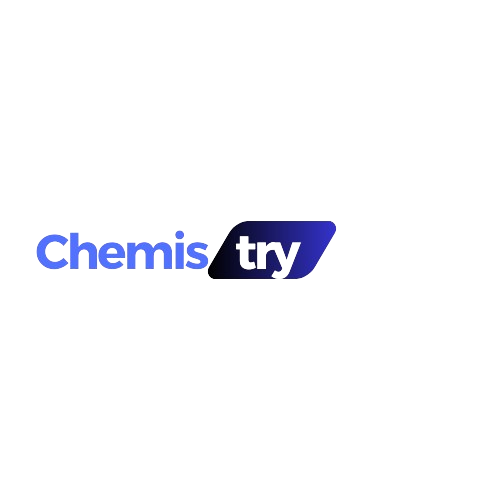
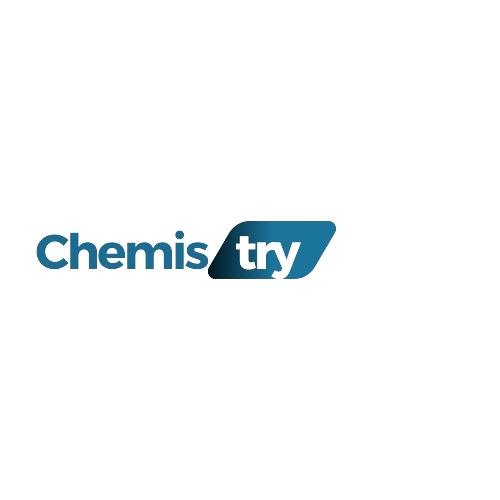
css

Changed region(s): [[0.06, 0.42, 0.69, 0.57]]

diff --git a/src/pages/Quiz/Test.jsx b/src/pages/Quiz/Test.jsx
@@ -1,11 +1,19 @@
 import React, { useState } from 'react'
-import { useLocation } from "react-router-dom"
+import { Link, useLocation } from "react-router-dom"
 import data from '../../data'
 import './Quiz.css'
+// import { ToastContainer, toast } from 'react-toastify';
+import toast, { Toaster } from 'react-hot-toast';
+import 'react-toastify/dist/ReactToastify.css';
+
 const Test = () => {
+  const notify = () => toast.success("Sizin cavab doğrudur!!!");
+  const notifyFalse = () => toast.error("Sizin cavab  yanlışdır!!!");
+
   const location = useLocation()
   let topicId = location.pathname.slice(location.pathname.length - 4, location.pathname.length - 2)
   let levelId = location.pathname.slice(location.pathname.length - 1, location.pathname.length)
+const [IsSkip, setIsSkip] = useState(false)
 
   let initialQuiz = data.filter(d => (d.levelId === levelId && d.topicId === topicId))
 const [disabledAnswer, setDisabledAnswer] = useState(false)
@@ -14,37 +22,76 @@ let answer=document.querySelector('.btn-answer')
   const [currentQuestionIndex, setCurrentQuestionIndex] = useState(0);
 const clickAnswer=(myAnswer)=>{
 if(myAnswer==initialQuiz[currentQuestionIndex].answer){
-answer.classList.add('.true')
+notify();
 setDisabledAnswer(true)
+
 }else{
-  answer.classList.add('.false')
-
 setDisabledAnswer(true)
+notifyFalse();
+}
+}
 
-}
-}
   const handleSkip = () => {
     setCurrentQuestionIndex(currentQuestionIndex + 1);
     setDisabledAnswer(false)
+    setIsSkip(true)
   };
 
   return (
-    <>
+  <div className='test-page-all-div'>
+      <div className='all-test'>
+     <Toaster
+  gutter={8}
+  containerClassName=""
+  containerStyle={{}}
+  toastOptions={{
+    // Define default options
+    className: '',
+    duration: 1500,
+    style: {
+      background: '#363636',
+      color: '#fff',
+    },
+
+    success: {
+      duration: 1500,
+      theme: {
+        primary: 'green',
+        secondary: 'black',
+      },
+    },
+  }}
+/>
       {initialQuiz[currentQuestionIndex] && (
-        <div>
-          <h4>{initialQuiz[currentQuestionIndex].question}</h4>
+        <div className='my-quiz'>
+          <h4>{initialQuiz[currentQuestionIndex].question}
+         <span>{currentQuestionIndex+1}/3</span>
+          
+          </h4>
          {
          initialQuiz[currentQuestionIndex].allAnswer.map((t,i)=>(
-<button disabled={disabledAnswer} key={i} className='btn btn-answer' onClick={()=>clickAnswer(t)}>{t}</button>
+<button disabled={disabledAnswer} key={i} className='btn-answer' onClick={()=>clickAnswer(t)}>{t}</button>
          ))
          }
-         <p>{currentQuestionIndex+1}/3</p>
         </div>
       )}
-      <button onClick={handleSkip} disabled={currentQuestionIndex === initialQuiz.length - 1}>
+      
+      
+      <div className='all-btn-div'>
+      {currentQuestionIndex === initialQuiz.length-1 ? (
+          <Link to='/'>
+             <button className='skip-btn' disabled={currentQuestionIndex !== initialQuiz.length - 1}>
+          Ana Səhifə
+         </button>
+          </Link>
+        ):<button className='skip-btn go-home' onClick={handleSkip} disabled={currentQuestionIndex === initialQuiz.length - 1}>
         Skip
-      </button>
-    </>
+      </button>} 
+      </div>
+        
+      
+    </div>
+  </div>
   )
 }
 

diff --git a/src/pages/Quiz/Quiz.css b/src/pages/Quiz/Quiz.css
@@ -1,6 +1,82 @@
-.true{
-    background-color: green;
+.all-topics , .test-page-all-div{
+    background-image: url(../../images/m12.jpg);
+
 }
-.false{
-    background-color: red;
+.test-page-all-div{
+    padding: 39px 10px;
+}
+.all-topics{
+    display: flex;
+    justify-content: space-between;
+    align-items: center;
+    padding: 23rem 10rem;
+}
+.topic-btn{
+color: white;
+    background-color: #1F7299;
+    padding: 18px 42px;
+    border-radius: 0 19px;
+    border-color: #1F7299;
+    transition: 0.5s;
+    font-weight: bold;
+
+}
+.topic-btn:hover{
+    color: #1F7299;
+    background-color: white;
+    font-weight: bold;
+    border-color: #1F7299;
+
+}
+.go-home{
+    width: 98%;
+}
+.level{
+    padding: 23rem 24rem;
+}
+.all-test{
+    margin: 10rem auto;
+    width: 40%;
+    background-color: #04354b;
+    padding: 8px 6px;
+}
+.all-test .my-quiz h4{
+    font-size: 26px;
+    color: white;
+    margin: 5px 0;
+    display: flex;
+    justify-content: space-between;
+    align-items: center;
+
+}
+.all-test .my-quiz h4 span{
+font-size: 12px;
+text-align: right;
+}
+.all-test .my-quiz .btn-answer{
+    width: 98%;
+    text-align: left;
+    padding: 4px 6px;
+    margin: 4px 2px;
+    border: 1px solid #424242;
+    background-color: #0e3141;
+    font-weight: bold;
+    color: white;
+}
+.all-btn-div{
+    display: flex;
+    flex-direction: column;
+}
+.skip-btn{
+    padding: 9px 0px;
+    background-color: #1F7299;
+    border-radius: 0 20px;
+    border-color: #0e3141;
+    margin: 15px 0;
+    color: white;
+    font-size: 18px;
+    font-weight: bold;
+}
+.my-quiz{
+    margin: 18px 13px;
 }

diff --git a/src/pages/HomePage.css b/src/pages/HomePage.css
@@ -1,4 +1,78 @@
 .home{
-    background: linear-gradient(148deg,rgba(1,152,255,.18) 0%,rgba(0,0,0,0) 100%);
+    background-image: url(../images/m12.jpg);
+  background-size: cover;
+  background-repeat: no-repeat;
+}
+.logo-img{
+    height: 500px;
+    margin-bottom: -10rem;
+    margin-top: 6rem;
+    margin-left: 170px;
+}
+.home-img-container{
+    width: 50%;
+    margin: 1px auto;
+    flex-direction: column;
+display: flex;
+}
+
+.btn {
+    margin-left: 55px;
+    position: relative;
+    color: white;
+    background-color: #1F7299;
+    padding: .75rem 2.5rem;
+    border: none;
+    cursor: pointer;
+transition: 0.3s;
+    border-radius: 5px;
+    font-weight: bold;
+    font-size: 1.2rem;
+}
+.btn-group{
+    width: 42%;
+    margin: 0px auto;
+    margin-bottom: 4rem;
+}
+tn-masterful {
+    background-color: #fff;
+    color: #1F7299;
+    border: none;
+    cursor: pointer;
+    border-radius: 50px;
+    position: relative;
+    overflow: hidden;
+}
   
+.btn-masterful .icon {
+    position: absolute;
+    top: 50%;
+    left: 8px;
+    transform: translateY(-50%);
+    font-size: 24px;
+}
+.btn-masterful .btn-txt{
+    padding-left: .5rem;
+}
+.btn-masterful:hover {
+    background-color: #fff;
+    color: #1F7299;
+}
+  
+.btn-masterful:hover .icon {
+    animation: rotate 2s linear infinite;
+}
+  
+@keyframes rotate {
+    from {transform: translateY(-50%) rotate(0deg);}
+    to {transform: translateY(-50%) rotate(360deg);}
+}
+.attribute{
+    position: absolute;
+    bottom: 10px;
+}
+  
+.a{
+    
+margin-bottom: 16rem;
 }

diff --git a/src/pages/Quiz/Level.jsx b/src/pages/Quiz/Level.jsx
@@ -2,21 +2,24 @@ import React from 'react';
 import { useParams } from 'react-router-dom';
 import { useLocation } from "react-router-dom"
 import { Link } from 'react-router-dom';
+import  './Quiz.css'
 const Level = () => {
     const location = useLocation()
 let id=location.pathname.slice(location.pathname.length-2,location.pathname.length)
     return (
         <div>
-            <h4>salaam bu level sehifesidir</h4>
-            <Link to={`/test/${id}/A`}>
-            <button>ASAN</button>
+<div className='level all-topics'>
+<Link to={`/test/${id}/A`}>
+            <button className='topic-btn'>ASAN</button>
             </Link>
             <Link to={`/test/${id}/B`}>
-            <button>ORTA</button>
+            <button className='topic-btn'>ORTA</button>
             </Link>
             <Link to={`/test/${id}/C`}>
-            <button>ÇƏTİN</button>
+            <button className='topic-btn'>ÇƏTİN</button>
             </Link>
+</div>
+         
 
             {/* {console.log(id)} */}
         </div>

diff --git a/src/pages/Quiz/Topic.jsx b/src/pages/Quiz/Topic.jsx
@@ -27,14 +27,16 @@ const Topic = () => {
     // console.log(thisTopic)
     return (
         <div>
-            {topics.map(topic => (
+         <div className='all-topics'>
+         {topics.map(topic => (
                 <Link key={topic.topicId} to={{ pathname: `/topic/${topic.topicId}`, state: { thisTopic } }}>
                     {/* <button key={topic.topicId} onClick={() => topicHandle(topic.topicId)}> */}
-                  <button  key={topic.topicId}>
+                  <button  key={topic.topicId} className='topic-btn'>
                         {topic.topicName}
                     </button>
                 </Link>
             ))}
+         </div>
         </div>
     );
 };

diff --git a/src/pages/HomePage.jsx b/src/pages/HomePage.jsx
@@ -1,12 +1,21 @@
 import React from 'react'
 import   "./HomePage.css"
+import {Link } from 'react-router-dom'
+import logo from '../images/try.png'
 const HomePage = () => {
   return (
     <div className='home'>
-<button></button>
-<button></button>
-<button></button>
-
+<div className='home-img-container '>
+<img  className='logo-img' src={logo} alt="" />
+  <Link to='/topic' className='a'>
+    <div className='btn-group'>
+    <button class="btn btn-masterful">
+            <span class="icon">&#x1F680;</span>
+            <span class="btn-txt">Testə başla!</span>
+        </button>
+    </div>
+  </Link>
+  </div>  
     </div>
   )
 }
